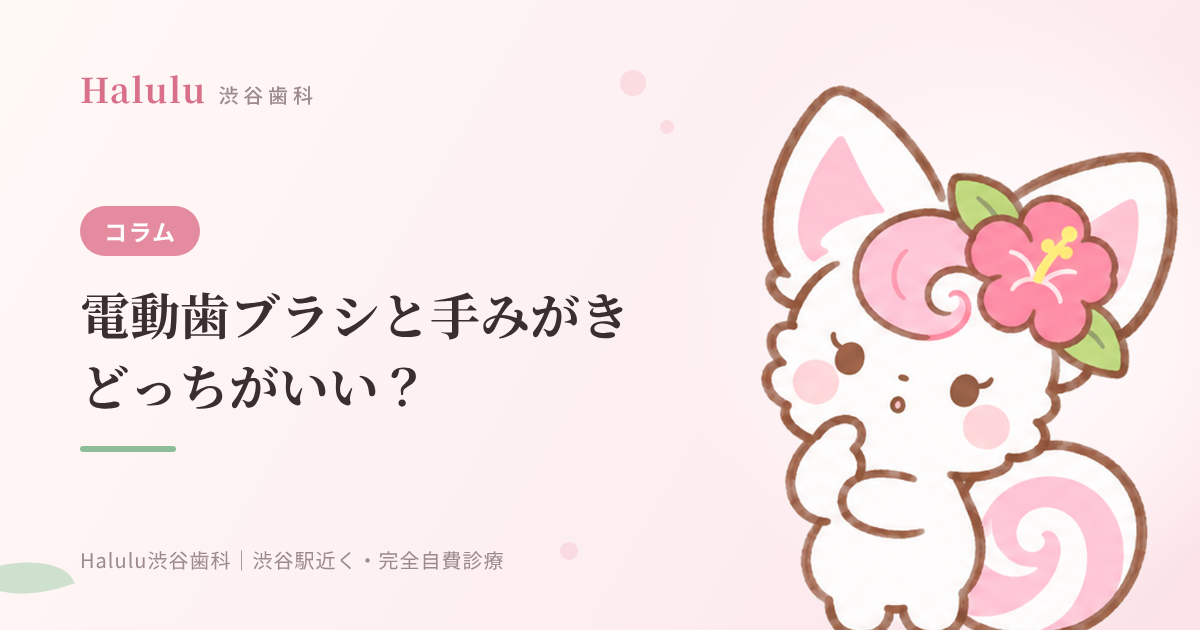
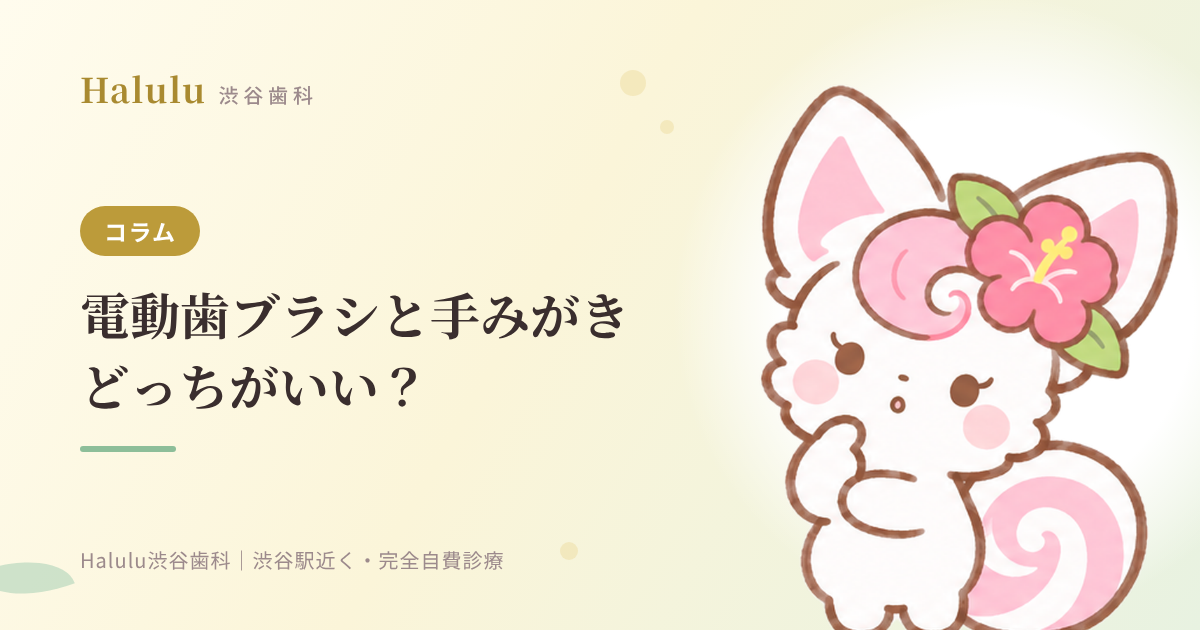
Haluluサムネイル：2色グラデーションを記事ごとに順番に（6種）／既存の下書き2本のサムネイルを上書き
Claude-Session: https://claude.ai/code/session_01CvngkNXDVJ9m4sc8tErocC

diff --git a/scripts/render-blog-thumb.js b/scripts/render-blog-thumb.js
@@ -13,9 +13,24 @@ const BG = {
   cream: { g: "#FFFDF8 0%,#FBF6EC 60%,#F3ECDD 100%", halo: "#FFFBF2", dot: "#EAD9B8", cat: "#B99A62", brand: "#B98A5A" },
   sage:  { g: "#FBFDF9 0%,#EEF5EC 60%,#DDEBDB 100%", halo: "#F6FBF4", dot: "#C3DCC0", cat: "#7FAE86", brand: "#6E9C76" },
   white: { g: "#FFFFFF 0%,#FFFFFF 55%,#F6F3F1 100%", halo: "#FFFFFF", dot: "#EADFDA", cat: "#E58BA0", brand: "#D9708A" },
+  // 2色のグラデーション（2026-11-02 本人希望「グラデーションにしてほしい・記事ごとに色を変える」）
+  "cream-pink":  { g: "#FFFBF2 0%,#FBF3E6 40%,#FBE6EA 100%", halo: "#FFFFFF", dot: "#F2D3D9", cat: "#D98AA0", brand: "#C9798F" },
+  "sage-cream":  { g: "#F4FAF1 0%,#EAF3E6 40%,#F8F1E3 100%", halo: "#FFFFFF", dot: "#C9DFC3", cat: "#7FAE86", brand: "#6E9C76" },
+  "sky-mint":    { g: "#F1F8FD 0%,#E6F1FA 45%,#E4F4EC 100%", halo: "#FFFFFF", dot: "#C6DDF0", cat: "#6FA3CF", brand: "#5B8FBD" },
+  "lavender-pink": { g: "#F7F4FD 0%,#EEE8FA 45%,#FBE7EE 100%", halo: "#FFFFFF", dot: "#DCD0F2", cat: "#9C86CF", brand: "#8A74BF" },
+  "lemon-sage":  { g: "#FFFCEE 0%,#FBF5D9 45%,#E8F2E1 100%", halo: "#FFFFFF", dot: "#EEDFA6", cat: "#BC9B3A", brand: "#A98A30" },
+  "peach-cream": { g: "#FFF6F0 0%,#FDE9DE 45%,#FBF4E6 100%", halo: "#FFFFFF", dot: "#F4CDB8", cat: "#DE8D6A", brand: "#CC7B58" },
 };
+const ROTATE = ["cream-pink", "sage-cream", "sky-mint", "lavender-pink", "lemon-sage", "peach-cream"];
+// 出力先の日付（…/YYYYMMDD-…）から順番に回す。日付がなければタイトルから
+function autoTheme(out, title) {
+  const m = String(out || "").match(/(20\d{6})/);
+  const n = m ? Math.floor(Date.UTC(+m[1].slice(0, 4), +m[1].slice(4, 6) - 1, +m[1].slice(6, 8)) / 864e5) : [...String(title)].reduce((a, c) => a + c.codePointAt(0), 0);
+  return ROTATE[n % ROTATE.length];
+}
+let OUT = "";
 function html(title, cat, chara, theme) {
-  const B = BG[theme] || BG[process.env.THUMB_THEME] || BG.cream;
+  const B = BG[theme] || BG[process.env.THUMB_THEME] || BG[autoTheme(OUT, title)];
   const t = esc(title).replace(/\\n|\n/g, "<br>");
   // 一番長い行が幅（約590px）に収まる文字サイズにする（半角は0.6文字分で数える）
   const w = l => [...l].reduce((n, c) => n + (/[\x20-\x7e]/.test(c) ? 0.6 : 1), 0);
@@ -50,6 +65,7 @@ ${cat ? `<div class="cat">${esc(cat)}</div>` : `<div style="margin-top:auto"></d
 
 (async () => {
   const [, , title, cat, out, chara, theme] = process.argv;
+  OUT = out;
   fs.mkdirSync(path.dirname(path.resolve(out)), { recursive: true });
   const b = await chromium.launch({ executablePath: "/opt/pw-browsers/chromium" });
   const p = await b.newPage({ viewport: { width: 1200, height: 630 } });

diff --git a/scripts/post-microcms.js b/scripts/post-microcms.js
@@ -69,12 +69,19 @@ const ALLOWED = ["title", "category", "excerpt", "body", "seoDescription", "date
       // コンテンツID（URLの最後）を英語のスラッグにする（2026-11-02 本人希望）。slug があれば PUT /blogs/<slug>
       const cid = typeof raw.slug === "string" && /^[a-z0-9][a-z0-9-]{1,48}[a-z0-9]$/.test(raw.slug) ? raw.slug : null;
       // 置き換え：replaceId（前に作った下書きのID）があれば、新しい下書きができたあとに消す
-      const res = await fetch(`https://${service}.microcms.io/api/v1/${endpoint}${cid ? "/" + cid : ""}?status=draft`, {
+      let res = await fetch(`https://${service}.microcms.io/api/v1/${endpoint}${cid ? "/" + cid : ""}?status=draft`, {
         method: cid ? "PUT" : "POST",
         headers: { "Content-Type": "application/json", "X-MICROCMS-API-KEY": key },
         body: JSON.stringify(content),
       });
-      const text = await res.text();
+      let text = await res.text();
+      // 同じスラッグの下書きが既にあるときは、上書き（PATCH）で作り直す（2026-11-02）
+      if (!res.ok && cid) {
+        const r2 = await fetch(`https://${service}.microcms.io/api/v1/${endpoint}/${cid}?status=draft`, {
+          method: "PATCH", headers: { "Content-Type": "application/json", "X-MICROCMS-API-KEY": key }, body: JSON.stringify(content),
+        });
+        if (r2.ok) { res = r2; text = await r2.text(); if (!text) text = JSON.stringify({ id: cid }); }
+      }
       if (res.ok) {
         const data = JSON.parse(text);
         let delNote = null;
